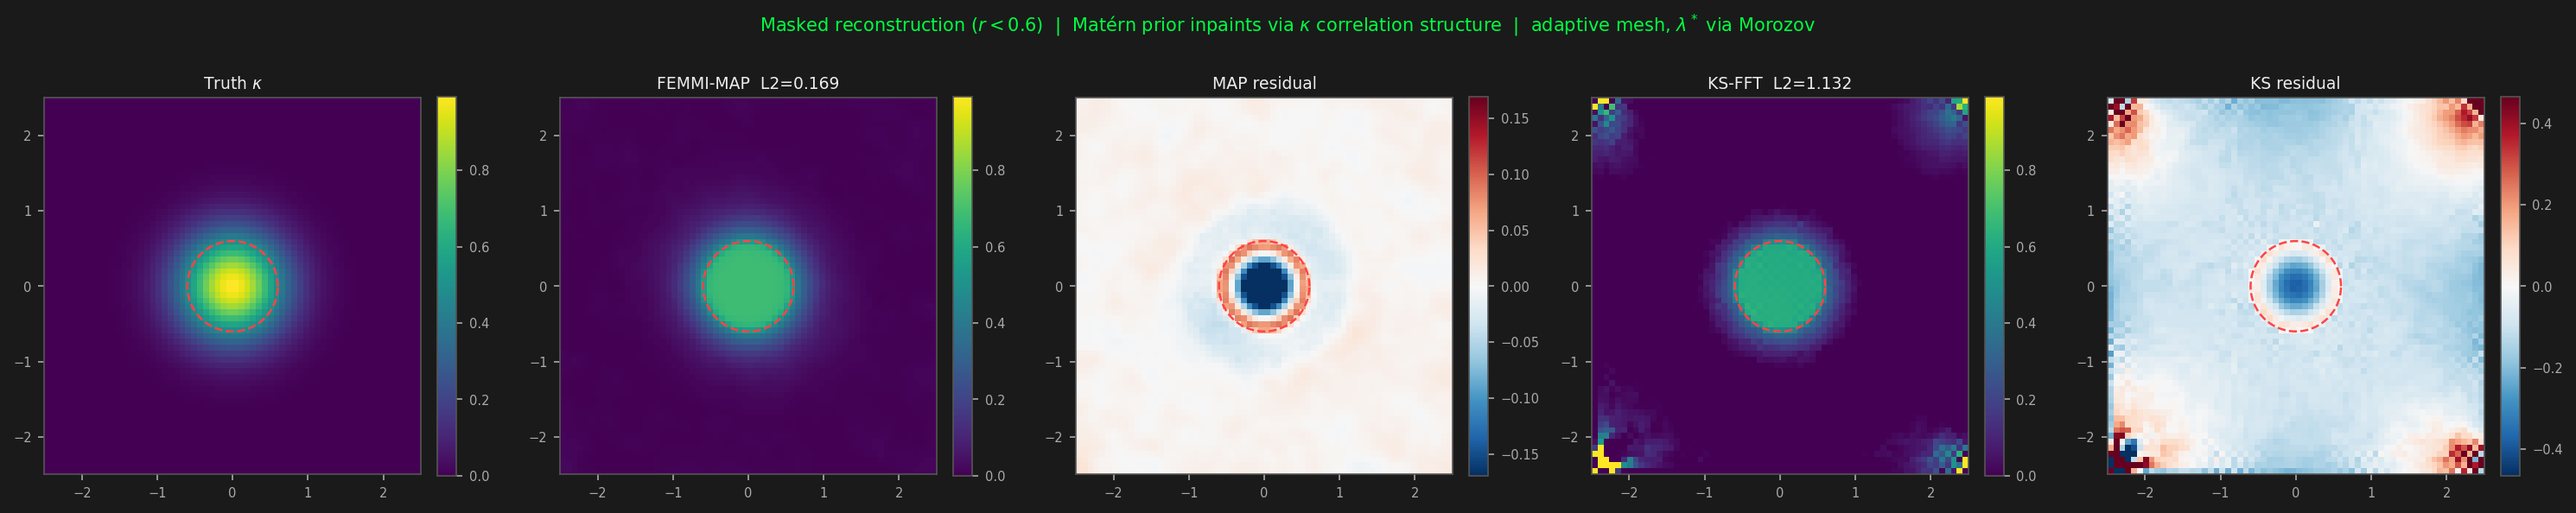
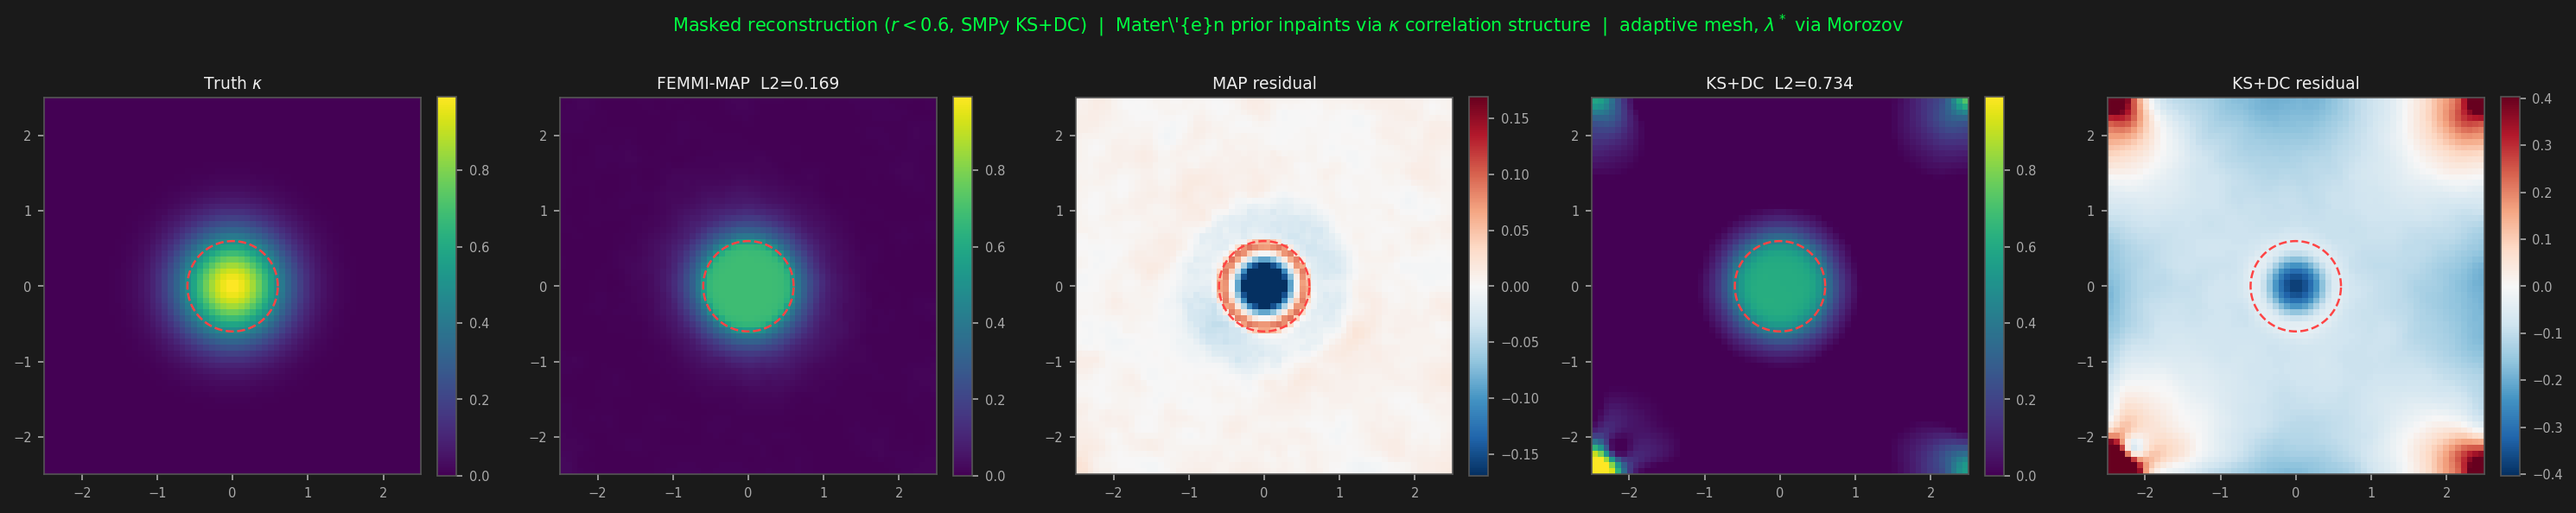
Use SMPy KaiserSquiresMapper in generate_figures.py

diff --git a/examples/generate_figures.py b/examples/generate_figures.py
@@ -1,15 +1,18 @@
 """
 examples/generate_figures.py
 ============================
-Self-contained preliminary-results figures for FEMMI.
-Does not require SMPy; Kaiser-Squires uses the built-in FFT implementation.
+Preliminary-results figures for FEMMI vs Kaiser-Squires (SMPy).
+
+Kaiser-Squires is run via SMPy's KaiserSquiresMapper, the same pipeline
+used by the SuperBIT collaboration and others in the weak-lensing community.
+Shear is binned to a 64x64 grid before being passed to SMPy, matching
+standard practice.
 
 Outputs (saved to outputs/):
-  fig_reconstruction.png  -- truth / FEMMI-MAP / MAP residual / KS-FFT / KS residual
+  fig_reconstruction.png  -- truth / FEMMI-MAP / MAP residual / KS+DC / KS residual
                              Gaussian lens, 10% noise, single realisation seed=42
-  fig_masked.png          -- masked field (r < 0.6): MAP inpaints, KS fails
-                             adaptive mesh refinement near mask boundary
-  fig_convergence.png     -- P3 forward-operator shear convergence vs mesh spacing
+  fig_masked.png          -- masked field (r < 0.6): MAP inpaints, KS collapses
+  fig_convergence.png     -- P3 forward-operator shear convergence O(h^2)
 
 Run from the project root:
     python examples/generate_figures.py
@@ -25,8 +28,11 @@ from scipy.interpolate import griddata
 
 from femmi.operators      import build_operators, build_operators_adaptive
 from femmi.forward        import DifferentiableForward
-from femmi.inverse        import MAPReconstructor, kaiser_squires
+from femmi.inverse        import MAPReconstructor
 from femmi.regularization import estimate_noise_level
+
+from smpy.config import Config
+from smpy.mapping_methods.kaiser_squires.kaiser_squires import KaiserSquiresMapper
 
 # ── style ─────────────────────────────────────────────────────────────────────
 BG, PANEL   = "#1a1a1a", "#111111"
@@ -43,7 +49,13 @@ plt.rcParams.update({
 
 DOMAIN     = (-2.5, 2.5, -2.5, 2.5)
 SIGMA_LENS = 0.5
+NX_GRID    = 64
 xmin, xmax, ymin, ymax = DOMAIN
+
+xi_g = np.linspace(xmin, xmax, NX_GRID)
+yi_g = np.linspace(ymin, ymax, NX_GRID)
+XX, YY   = np.meshgrid(xi_g, yi_g)
+GRID_PTS = np.column_stack([XX.ravel(), YY.ravel()])
 
 OUT = os.path.join(os.path.dirname(__file__), "..", "outputs")
 os.makedirs(OUT, exist_ok=True)
@@ -55,13 +67,39 @@ def gaussian_kappa(nodes, sigma=SIGMA_LENS):
     return np.exp(-(nodes[:, 0]**2 + nodes[:, 1]**2) / (2 * sigma**2))
 
 
-def nodes_to_grid(nodes, vals, nx=64):
-    xi = np.linspace(xmin, xmax, nx)
-    yi = np.linspace(ymin, ymax, nx)
-    XX, YY = np.meshgrid(xi, yi)
+def nodes_to_grid(nodes, vals):
+    """Interpolate node-valued field to the shared 64x64 comparison grid."""
     g  = griddata(nodes, vals, (XX, YY), method="linear")
     gn = griddata(nodes, vals, (XX, YY), method="nearest")
-    return np.where(np.isfinite(g), g, gn), XX, YY
+    return np.where(np.isfinite(g), g, gn)
+
+
+def shear_nodes_to_grid(nodes, g1, g2):
+    """Bin shear from FEM node positions onto the 64x64 grid for SMPy."""
+    g1g = griddata(nodes, g1, (XX, YY), method="linear", fill_value=0.0)
+    g2g = griddata(nodes, g2, (XX, YY), method="linear", fill_value=0.0)
+    g1n = griddata(nodes, g1, (XX, YY), method="nearest")
+    g2n = griddata(nodes, g2, (XX, YY), method="nearest")
+    g1g = np.where(np.isfinite(g1g), g1g, g1n)
+    g2g = np.where(np.isfinite(g2g), g2g, g2n)
+    return g1g, g2g
+
+
+def dc_correct(kappa_ks, sky_frac=0.15):
+    """Subtract mean of outer sky annulus (standard DC offset correction)."""
+    ny, nx = kappa_ks.shape
+    m   = max(1, int(sky_frac * min(ny, nx)))
+    sky = np.concatenate([kappa_ks[:m].ravel(),  kappa_ks[-m:].ravel(),
+                          kappa_ks[:, :m].ravel(), kappa_ks[:, -m:].ravel()])
+    return kappa_ks - sky.mean()
+
+
+def run_ks_smpy(g1_grid, g2_grid, smoothing_sigma=1.5):
+    """Run SMPy Kaiser-Squires and apply DC offset correction."""
+    cfg = Config.from_defaults("kaiser_squires").to_dict()
+    cfg["methods"]["kaiser_squires"]["smoothing"]["sigma"] = smoothing_sigma
+    kappa_raw, _ = KaiserSquiresMapper(cfg).create_maps(g1_grid, g2_grid)
+    return dc_correct(kappa_raw)
 
 
 def run_map(ops, g1_obs, g2_obs, wiener=SIGMA_LENS, maxiter=500):
@@ -75,14 +113,10 @@ def run_map(ops, g1_obs, g2_obs, wiener=SIGMA_LENS, maxiter=500):
     return kappa, float(fwd.lam_reg), float(noise_std), result
 
 
-def run_ks(nodes, g1, g2):
-    """Built-in FFT Kaiser-Squires (no SMPy required)."""
-    return kaiser_squires(g1, g2, nodes)
-
-
-def l2_rel(pred, truth):
-    d = np.linalg.norm(truth)
-    return float(np.linalg.norm(np.nan_to_num(pred) - truth) / (d if d > 0 else 1.0))
+def l2_rel(pred_grid, truth_grid):
+    d = np.linalg.norm(truth_grid)
+    return float(np.linalg.norm(np.nan_to_num(pred_grid) - truth_grid)
+                 / (d if d > 0 else 1.0))
 
 
 def panel(ax, data, title, cmap="viridis", vmin=None, vmax=None):
@@ -102,7 +136,7 @@ def save_fig(fig, name):
     print(f"  saved {path}")
 
 
-# ── shared mesh ───────────────────────────────────────────────────────────────
+# ── shared mesh and synthetic data ────────────────────────────────────────────
 print("Building 20x20 P3 mesh...")
 NX    = 20
 ops   = build_operators(NX, NX, xmin, xmax, ymin, ymax, verbose=False)
@@ -111,7 +145,7 @@ print(f"  {ops.n_nodes} nodes  N_b={ops.bnd_mesh.n_boundary_dofs}")
 
 kappa_true       = gaussian_kappa(nodes)
 g1_true, g2_true = ops.forward(kappa_true)
-kt_grid, XX, YY  = nodes_to_grid(nodes, kappa_true)
+kt_grid          = nodes_to_grid(nodes, kappa_true)
 vmax_k           = float(kt_grid.max())
 
 rng     = np.random.default_rng(42)
@@ -121,9 +155,9 @@ g2_obs  = g2_true + rng.normal(0, noise_s, g2_true.shape)
 print(f"  noise_std = {noise_s:.4f}  (10% of mean shear amplitude)")
 
 
-# ═══════════════════════════════════════════════════════════════════════════════
-# Figure 1 — reconstruction at 10% noise (seed=42 single realisation)
-# ═══════════════════════════════════════════════════════════════════════════════
+# ══════════════════════════════════════════════════════════════════════════════
+# Figure 1 -- reconstruction at 10% noise (seed=42 single realisation)
+# ══════════════════════════════════════════════════════════════════════════════
 print("\nFig 1: reconstruction at 10% noise (seed=42)...")
 
 t0 = time.perf_counter()
@@ -131,41 +165,39 @@ km, lam, ns, result = run_map(ops, g1_obs, g2_obs)
 print(f"  MAP: lambda*={lam:.3e}  {result.n_iter} iters  "
       f"converged={result.converged}  ({time.perf_counter()-t0:.1f}s)")
 
-km_grid, _, _ = nodes_to_grid(nodes, km)
-ks_nodes      = run_ks(nodes, g1_obs, g2_obs)
-ks_grid, _, _ = nodes_to_grid(nodes, ks_nodes)
+km_grid          = nodes_to_grid(nodes, km)
+g1g_obs, g2g_obs = shear_nodes_to_grid(nodes, g1_obs, g2_obs)
+ks_grid          = run_ks_smpy(g1g_obs, g2g_obs, smoothing_sigma=1.5)
 
-e_map = l2_rel(km_grid, kt_grid)
-e_ks  = l2_rel(ks_grid, kt_grid)
+e_map  = l2_rel(km_grid, kt_grid)
+e_ks   = l2_rel(ks_grid, kt_grid)
 improv = (e_ks - e_map) / e_ks * 100
 print(f"  FEMMI-MAP L2 = {e_map:.3f}")
-print(f"  KS-FFT    L2 = {e_ks:.3f}")
+print(f"  KS+DC     L2 = {e_ks:.3f}")
 print(f"  improvement  = {improv:+.1f}%")
 
 fig, axes = plt.subplots(1, 5, figsize=(20, 4))
-panel(axes[0], kt_grid,         r"Truth $\kappa$",            vmin=0, vmax=vmax_k)
-panel(axes[1], km_grid,         f"FEMMI-MAP  L2={e_map:.3f}", vmin=0, vmax=vmax_k)
-r_map = km_grid - kt_grid
-r_max = float(np.percentile(np.abs(r_map), 99))
-panel(axes[2], r_map,           "MAP residual",
-      cmap="RdBu_r", vmin=-r_max, vmax=r_max)
-panel(axes[3], ks_grid,         f"KS-FFT  L2={e_ks:.3f}",   vmin=0, vmax=vmax_k)
-r_ks  = ks_grid - kt_grid
+panel(axes[0], kt_grid, r"Truth $\kappa$",             vmin=0, vmax=vmax_k)
+panel(axes[1], km_grid, f"FEMMI-MAP  L2={e_map:.3f}",  vmin=0, vmax=vmax_k)
+r_map  = km_grid - kt_grid
+r_max  = float(np.percentile(np.abs(r_map), 99))
+panel(axes[2], r_map,   "MAP residual", cmap="RdBu_r", vmin=-r_max, vmax=r_max)
+panel(axes[3], ks_grid, f"KS+DC  L2={e_ks:.3f}",      vmin=0, vmax=vmax_k)
+r_ks   = ks_grid - kt_grid
 r_kmax = float(np.percentile(np.abs(r_ks), 99))
-panel(axes[4], r_ks,            "KS residual",
-      cmap="RdBu_r", vmin=-r_kmax, vmax=r_kmax)
+panel(axes[4], r_ks,    "KS+DC residual", cmap="RdBu_r", vmin=-r_kmax, vmax=r_kmax)
 
 fig.suptitle(
-    r"FEMMI vs Kaiser-Squires  |  Gaussian $\kappa$ ($\sigma=0.5$), 10% noise, seed=42  "
-    r"|  $20\times20$ P3 mesh, $\lambda^*$ via Morozov discrepancy principle",
+    r"FEMMI vs Kaiser-Squires (SMPy)  |  Gaussian $\kappa$ ($\sigma=0.5$), "
+    r"10% noise, seed=42  |  $20\times20$ P3 mesh, $\lambda^*$ via Morozov",
     color=GREEN, fontsize=10)
 fig.tight_layout()
 save_fig(fig, "fig_reconstruction.png")
 
 
-# ═══════════════════════════════════════════════════════════════════════════════
-# Figure 2 — masked field (r < 0.6), adaptive mesh
-# ═══════════════════════════════════════════════════════════════════════════════
+# ══════════════════════════════════════════════════════════════════════════════
+# Figure 2 -- masked field (r < 0.6), adaptive mesh
+# ══════════════════════════════════════════════════════════════════════════════
 MASK_R = 0.6
 print(f"\nFig 2: masked field (r < {MASK_R}), adaptive mesh...")
 
@@ -176,12 +208,12 @@ ops_a   = build_operators_adaptive(NX, NX, xmin, xmax, ymin, ymax,
 nodes_a = np.array(ops_a.mesh.nodes)
 print(f"  adaptive mesh: {ops_a.n_nodes} nodes ({time.perf_counter()-t0:.1f}s)")
 
-kappa_a      = gaussian_kappa(nodes_a)
-g1a, g2a     = ops_a.forward(kappa_a)
-ns_a         = 0.10 * float(np.std(np.hypot(g1a, g2a)))
-g1a_obs      = g1a + rng.normal(0, ns_a, g1a.shape)
-g2a_obs      = g2a + rng.normal(0, ns_a, g2a.shape)
-r_a          = np.hypot(nodes_a[:, 0], nodes_a[:, 1])
+kappa_a  = gaussian_kappa(nodes_a)
+g1a, g2a = ops_a.forward(kappa_a)
+ns_a     = 0.10 * float(np.std(np.hypot(g1a, g2a)))
+g1a_obs  = g1a + rng.normal(0, ns_a, g1a.shape)
+g2a_obs  = g2a + rng.normal(0, ns_a, g2a.shape)
+r_a      = np.hypot(nodes_a[:, 0], nodes_a[:, 1])
 g1a_obs[r_a < MASK_R] = 0.
 g2a_obs[r_a < MASK_R] = 0.
 
@@ -190,19 +222,19 @@ km_a, lam_a, _, result_a = run_map(ops_a, g1a_obs, g2a_obs)
 print(f"  MAP: lambda*={lam_a:.3e}  {result_a.n_iter} iters  "
       f"({time.perf_counter()-t0:.1f}s)")
 
-km_ag, _, _ = nodes_to_grid(nodes_a, km_a)
-kt_ag, _, _ = nodes_to_grid(nodes_a, kappa_a)
-ks_a_nodes  = run_ks(nodes_a, g1a_obs, g2a_obs)
-ks_ag, _, _ = nodes_to_grid(nodes_a, ks_a_nodes)
+km_ag       = nodes_to_grid(nodes_a, km_a)
+kt_ag       = nodes_to_grid(nodes_a, kappa_a)
+g1ag, g2ag  = shear_nodes_to_grid(nodes_a, g1a_obs, g2a_obs)
+ks_ag       = run_ks_smpy(g1ag, g2ag, smoothing_sigma=1.5)
 
-e_map_a = l2_rel(km_ag, kt_ag)
-e_ks_a  = l2_rel(ks_ag, kt_ag)
+e_map_a  = l2_rel(km_ag, kt_ag)
+e_ks_a   = l2_rel(ks_ag, kt_ag)
 improv_a = (e_ks_a - e_map_a) / e_ks_a * 100
 print(f"  FEMMI-MAP L2 = {e_map_a:.3f}")
-print(f"  KS-FFT    L2 = {e_ks_a:.3f}")
+print(f"  KS+DC     L2 = {e_ks_a:.3f}")
 print(f"  improvement  = {improv_a:+.1f}%")
 
-theta = np.linspace(0, 2 * np.pi, 300)
+theta   = np.linspace(0, 2 * np.pi, 300)
 cx_circ = MASK_R * np.cos(theta)
 cy_circ = MASK_R * np.sin(theta)
 vmax_a  = float(kt_ag.max())
@@ -210,33 +242,33 @@ vmax_a  = float(kt_ag.max())
 fig, axes = plt.subplots(1, 5, figsize=(20, 4))
 for ax in axes:
     ax.plot(cx_circ, cy_circ, color="#ff4444", lw=1.2, ls="--")
-panel(axes[0], kt_ag,  r"Truth $\kappa$",             vmin=0, vmax=vmax_a)
-panel(axes[1], km_ag,  f"FEMMI-MAP  L2={e_map_a:.3f}", vmin=0, vmax=vmax_a)
+panel(axes[0], kt_ag,  r"Truth $\kappa$",               vmin=0, vmax=vmax_a)
+panel(axes[1], km_ag,  f"FEMMI-MAP  L2={e_map_a:.3f}",  vmin=0, vmax=vmax_a)
 ra   = km_ag - kt_ag
 rma  = float(np.percentile(np.abs(ra), 99))
 panel(axes[2], ra,     "MAP residual", cmap="RdBu_r", vmin=-rma, vmax=rma)
-panel(axes[3], ks_ag,  f"KS-FFT  L2={e_ks_a:.3f}",   vmin=0, vmax=vmax_a)
+panel(axes[3], ks_ag,  f"KS+DC  L2={e_ks_a:.3f}",     vmin=0, vmax=vmax_a)
 rka  = ks_ag - kt_ag
 rmka = float(np.percentile(np.abs(rka), 99))
-panel(axes[4], rka,    "KS residual", cmap="RdBu_r", vmin=-rmka, vmax=rmka)
+panel(axes[4], rka,    "KS+DC residual", cmap="RdBu_r", vmin=-rmka, vmax=rmka)
 
 fig.suptitle(
-    rf"Masked reconstruction ($r < {MASK_R}$)  |  "
-    r"Matérn prior inpaints via $\kappa$ correlation structure  "
+    rf"Masked reconstruction ($r < {MASK_R}$, SMPy KS+DC)  |  "
+    r"Mater\'{e}n prior inpaints via $\kappa$ correlation structure  "
     r"|  adaptive mesh, $\lambda^*$ via Morozov",
     color=GREEN, fontsize=10)
 fig.tight_layout()
 save_fig(fig, "fig_masked.png")
 
 
-# ═══════════════════════════════════════════════════════════════════════════════
-# Figure 3 — forward-operator shear convergence
-# ═══════════════════════════════════════════════════════════════════════════════
+# ══════════════════════════════════════════════════════════════════════════════
+# Figure 3 -- forward-operator shear convergence
+# ══════════════════════════════════════════════════════════════════════════════
 #
-# Measures ||gamma_h - gamma_ref|| as mesh is refined, for fixed kappa_true.
+# Measures ||gamma_h - gamma_ref|| as mesh is refined for fixed kappa_true.
 # sigma=1.5 ensures sigma/h >= 1 on all test meshes (asymptotic regime).
-# Comparison is restricted to deep interior nodes (|x|,|y| < 1.5) to exclude
-# boundary nodes where the shear operator is deliberately zeroed.
+# Restricted to deep interior nodes (|x|,|y| < 1.5): shear operators are
+# deliberately zeroed on boundary nodes, so those are excluded from comparison.
 #
 print("\nFig 3: forward-operator shear convergence...")
 SIGMA_FIG = 1.5
@@ -295,9 +327,9 @@ fig, ax = plt.subplots(figsize=(7, 5))
 ax.loglog(h_arr, e_arr, "o-", color=GREEN, lw=2.5, ms=8, zorder=5,
           label=rf"P3 FEM-BEM  $\gamma$  (fitted slope {slope:.2f})")
 h_ref = np.array([h_arr.min() * 0.75, h_arr.max() * 1.25])
-c2  = e_arr[mid][-1] / h_arr[mid][-1]**2
+c2    = e_arr[mid][-1] / h_arr[mid][-1]**2
 ax.loglog(h_ref, c2 * h_ref**2, "--", color=ORANGE, alpha=0.8, lw=2,
-          label=r"$O(h^2)$ — P3 theory")
+          label=r"$O(h^2)$ -- P3 theory")
 ax.set_xlabel(r"Mesh spacing $h = 5/n_x$", fontsize=12)
 ax.set_ylabel(r"Normalised $L^2$ shear error (deep interior)", fontsize=11)
 ax.set_title(
@@ -314,14 +346,14 @@ print(f"""
 {'='*60}
 Summary
 {'='*60}
-fig_reconstruction.png
+fig_reconstruction.png  (10% noise, seed=42)
   FEMMI-MAP L2 = {e_map:.3f}
-  KS-FFT    L2 = {e_ks:.3f}
+  KS+DC     L2 = {e_ks:.3f}
   improvement  = {improv:+.1f}%
 
-fig_masked.png  (r < {MASK_R})
+fig_masked.png  (r < {MASK_R}, adaptive mesh)
   FEMMI-MAP L2 = {e_map_a:.3f}
-  KS-FFT    L2 = {e_ks_a:.3f}
+  KS+DC     L2 = {e_ks_a:.3f}
   improvement  = {improv_a:+.1f}%
 
 fig_convergence.png
